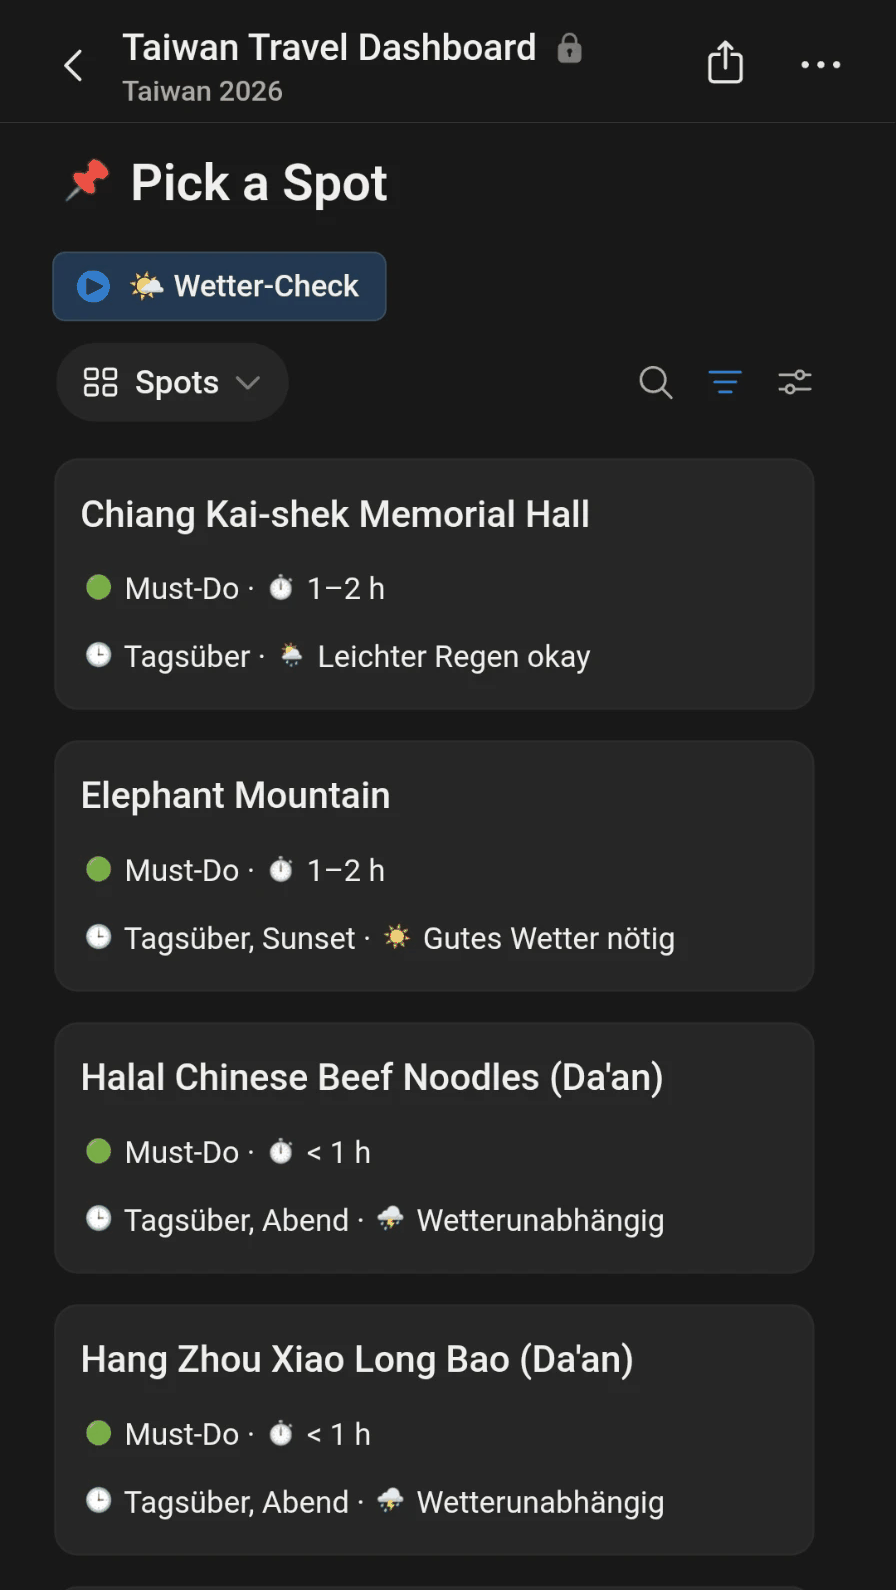
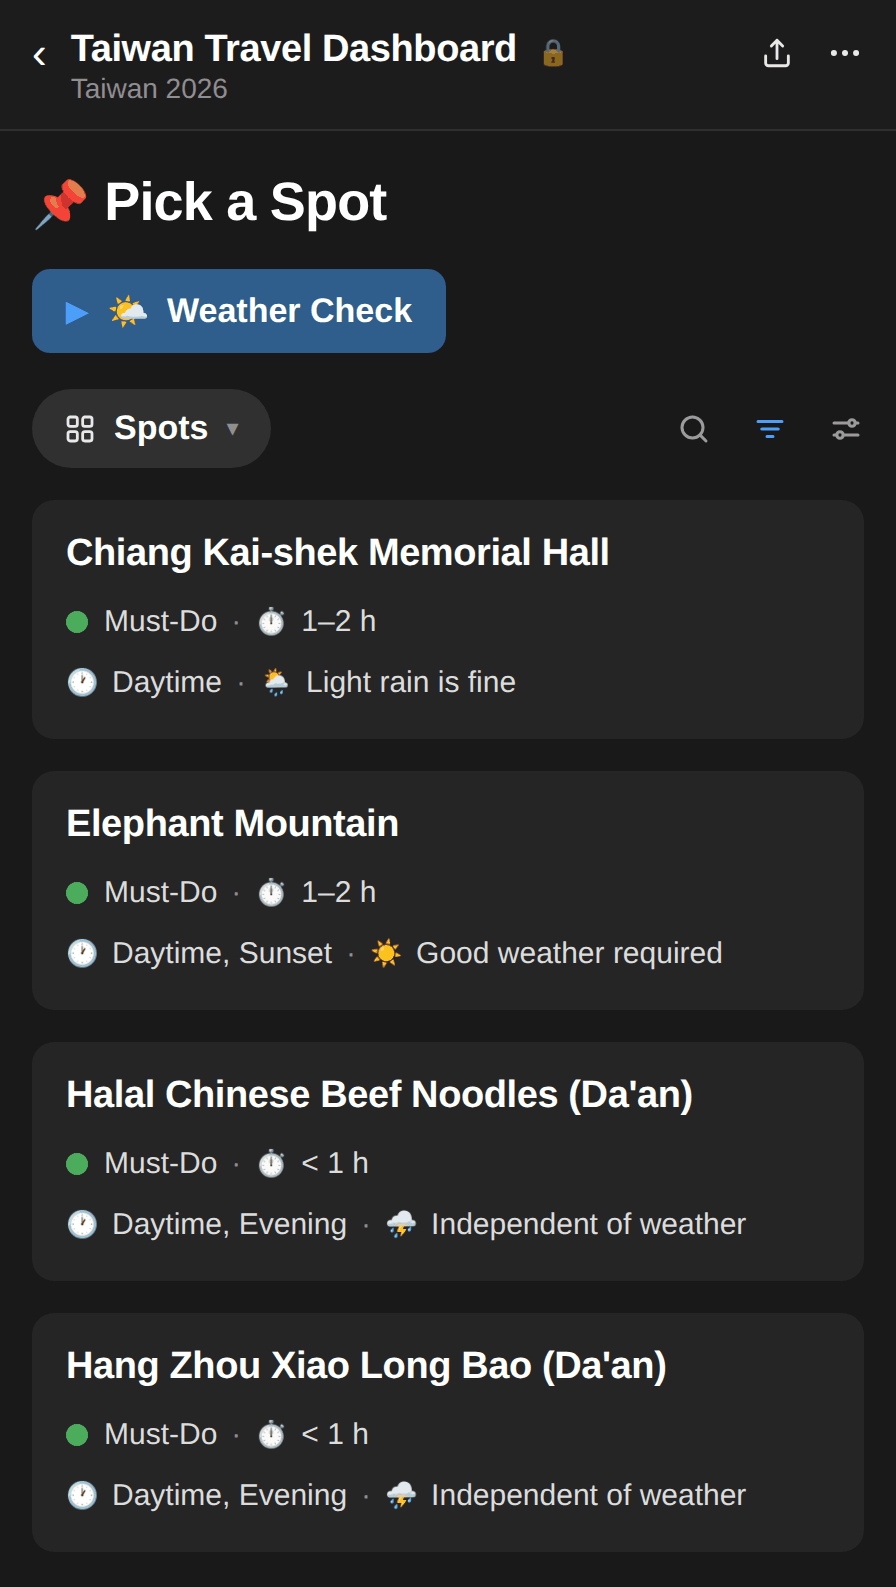
Replace dashboard screenshot with an English illustration
The repository is English-only, but the live dashboard's labels are German
Notion select values that cannot be translated from the outside. Redraw the
Pick a Spot section as an English illustration instead, and mark it as such
rather than passing it off as a screenshot.

Also correct the filtered view's name to Spots; Weather Check is the button
that triggers the scenario, not the view.

Claude-Session: https://claude.ai/code/session_01ADfcoKs2kmY3kh444EzFG1

diff --git a/README.md b/README.md
@@ -35,7 +35,7 @@ graph TD
         W1["04 Spot Weather Webhook Listener"] -->|"Make API: run scenario"| P["03 Spot Weather Pipeline"]
     end
 
-    T["Wetter-Check button in Notion<br/>(configured outside this repo)"] -->|"calls webhook"| W1
+    T["Weather Check button in Notion<br/>(configured outside this repo)"] -->|"calls webhook"| W1
 
     subgraph Notion["Notion workspace"]
         HD[("Hazard status database")]
@@ -58,7 +58,7 @@ graph TD
     P -->|"writes the current level into every spot row"| SP
     ID --> DB
     HD --> DB
-    SP -->|"Weather check view:<br/>tolerance >= current level"| DB
+    SP -->|"Spots view filter:<br/>tolerance >= current level"| DB
 
     WG["meteoblue-widget.html<br/>hosted e.g. on GitHub Pages<br/>(configured schedule, independent of Notion)"] -->|"embed block"| DB
     WG --> MB["Meteoblue forecast iframe"]
@@ -202,7 +202,7 @@ flowchart LR
 
 Receives a call on a Make custom webhook and starts scenario 03 immediately via the Make API (`POST /api/v2/scenarios/{scenarioId}/run`, token authentication). This allows an on-demand refresh, e.g. after changing the itinerary.
 
-On the dashboard this is wired to the **Wetter-Check** button in the "Pick a Spot" section (see the [screenshot](#spot-filtering-pick-a-spot)): pressing it calls this webhook, scenario 03 runs, and the spot list re-filters against the fresh weather level.
+On the dashboard this is wired to the **Weather Check** button in the "Pick a Spot" section (see [Spot filtering](#spot-filtering-pick-a-spot)): pressing it calls this webhook, scenario 03 runs, and the spot list re-filters against the fresh weather level.
 
 The Notion-side trigger that calls this webhook (a Notion button or automation) is **not** part of this repository and has to be set up separately.
 
@@ -268,12 +268,14 @@ The same 1–4 scale is used twice: once for the **current weather level** at th
 The weather levels are not just displayed — they decide **which activities the dashboard still offers**. This is what the "Pick a Spot" section on the dashboard does.
 
 <p align="center">
-  <img src="docs/pick-a-spot.png" alt="Pick a Spot section of the Notion dashboard, showing spot cards with their weather tolerance" width="420">
+  <img src="docs/pick-a-spot.png" alt="Illustration of the Pick a Spot dashboard section: spot cards listing priority, duration, time of day and weather tolerance" width="420">
 </p>
 
-The **Wetter-Check** ("weather check") button at the top runs the Make scenario on demand: it calls the webhook of scenario 04, which starts scenario 03 through the Make API. Once the run finishes, the spot cards below reflect the fresh weather level.
+> The image is an English illustration of the dashboard section, redrawn from the live view — the author's own dashboard is maintained in German.
 
-The screenshot was taken at level 1: the weather in Taipei was good, so nothing is filtered out. Spots that *require* good weather are available, and so is everything that merely tolerates rain — at level 1 the whole index qualifies. The filter only starts removing entries as the level climbs.
+The **Weather Check** button at the top runs the Make scenario on demand: it calls the webhook of scenario 04, which starts scenario 03 through the Make API. Once the run finishes, the spot cards below reflect the fresh weather level.
+
+The state shown is level 1: the weather in Taipei was good, so nothing is filtered out. Spots that *require* good weather are available, and so is everything that merely tolerates rain — at level 1 the whole index qualifies. The filter only starts removing entries as the level climbs.
 
 Every spot is tagged once, by hand, with the worst conditions it still makes sense in. An outdoor viewpoint is tolerance `1`, a temple courtyard `3`, an indoor museum or a beef noodle shop `4`. Scenario 03 then writes the current weather level of the active stop into **every row of the spot index**, and a formula compares the two values per row:
 
@@ -281,7 +283,7 @@ Every spot is tagged once, by hand, with the worst conditions it still makes sen
 Weather OK  =  Weather tolerance >= Current level
 ```
 
-The "Weather check" view of the spot database filters on that formula, so the list shrinks and grows on its own as the weather changes:
+The `Spots` view of the spot database carries a filter on that formula, so the list shrinks and grows on its own as the weather changes:
 
 | Current level | Spots shown |
 | :---: | :--- |
@@ -291,16 +293,6 @@ The "Weather check" view of the spot database filters on that formula, so the li
 | 4 ⛈ | tolerance 4 only — indoor spots, night markets, food |
 
 The practical effect: during a heavy-rain warning the dashboard stops suggesting Elephant Mountain and leaves the museums and indoor food spots on the list, without anyone having to re-filter by hand.
-
-The dashboard itself is kept in German. Its labels map to this README as follows:
-
-| Label in the screenshot | English | Tolerance |
-| :--- | :--- | :---: |
-| `Gutes Wetter nötig` | Good weather required | 1 |
-| `Leichter Regen okay` | Light rain is fine | 3 |
-| `Wetterunabhängig` | Independent of weather | 4 |
-| `Tagsüber`, `Abend` | daytime, evening | – |
-| `Wetter-Check` | weather check (refresh button) | – |
 
 **Spot index** (`Taiwan Spot Index`, written by scenario 03 in the full setup)
 
@@ -314,7 +306,7 @@ Every spot carries four hand-maintained attributes — priority, duration, time 
 | `Time of day` | Multi-select | e.g. `daytime`, `evening`, `sunset` |
 | `Weather tolerance` | Number | Worst conditions the spot still works in (1–4), maintained by hand |
 | `Current level` | Number | Current weather level of the active stop, overwritten on every run |
-| `Weather OK` | Formula | `Weather tolerance >= Current level`; the "Weather check" view filters on it |
+| `Weather OK` | Formula | `Weather tolerance >= Current level`; the `Spots` view filters on it |
 
 > Property names above are the ones used in this setup; adapt them to your own workspace. The spot-index write is **not** part of the reduced blueprint files — see [Notes on the blueprint files](#-notes-on-the-blueprint-files).
 
